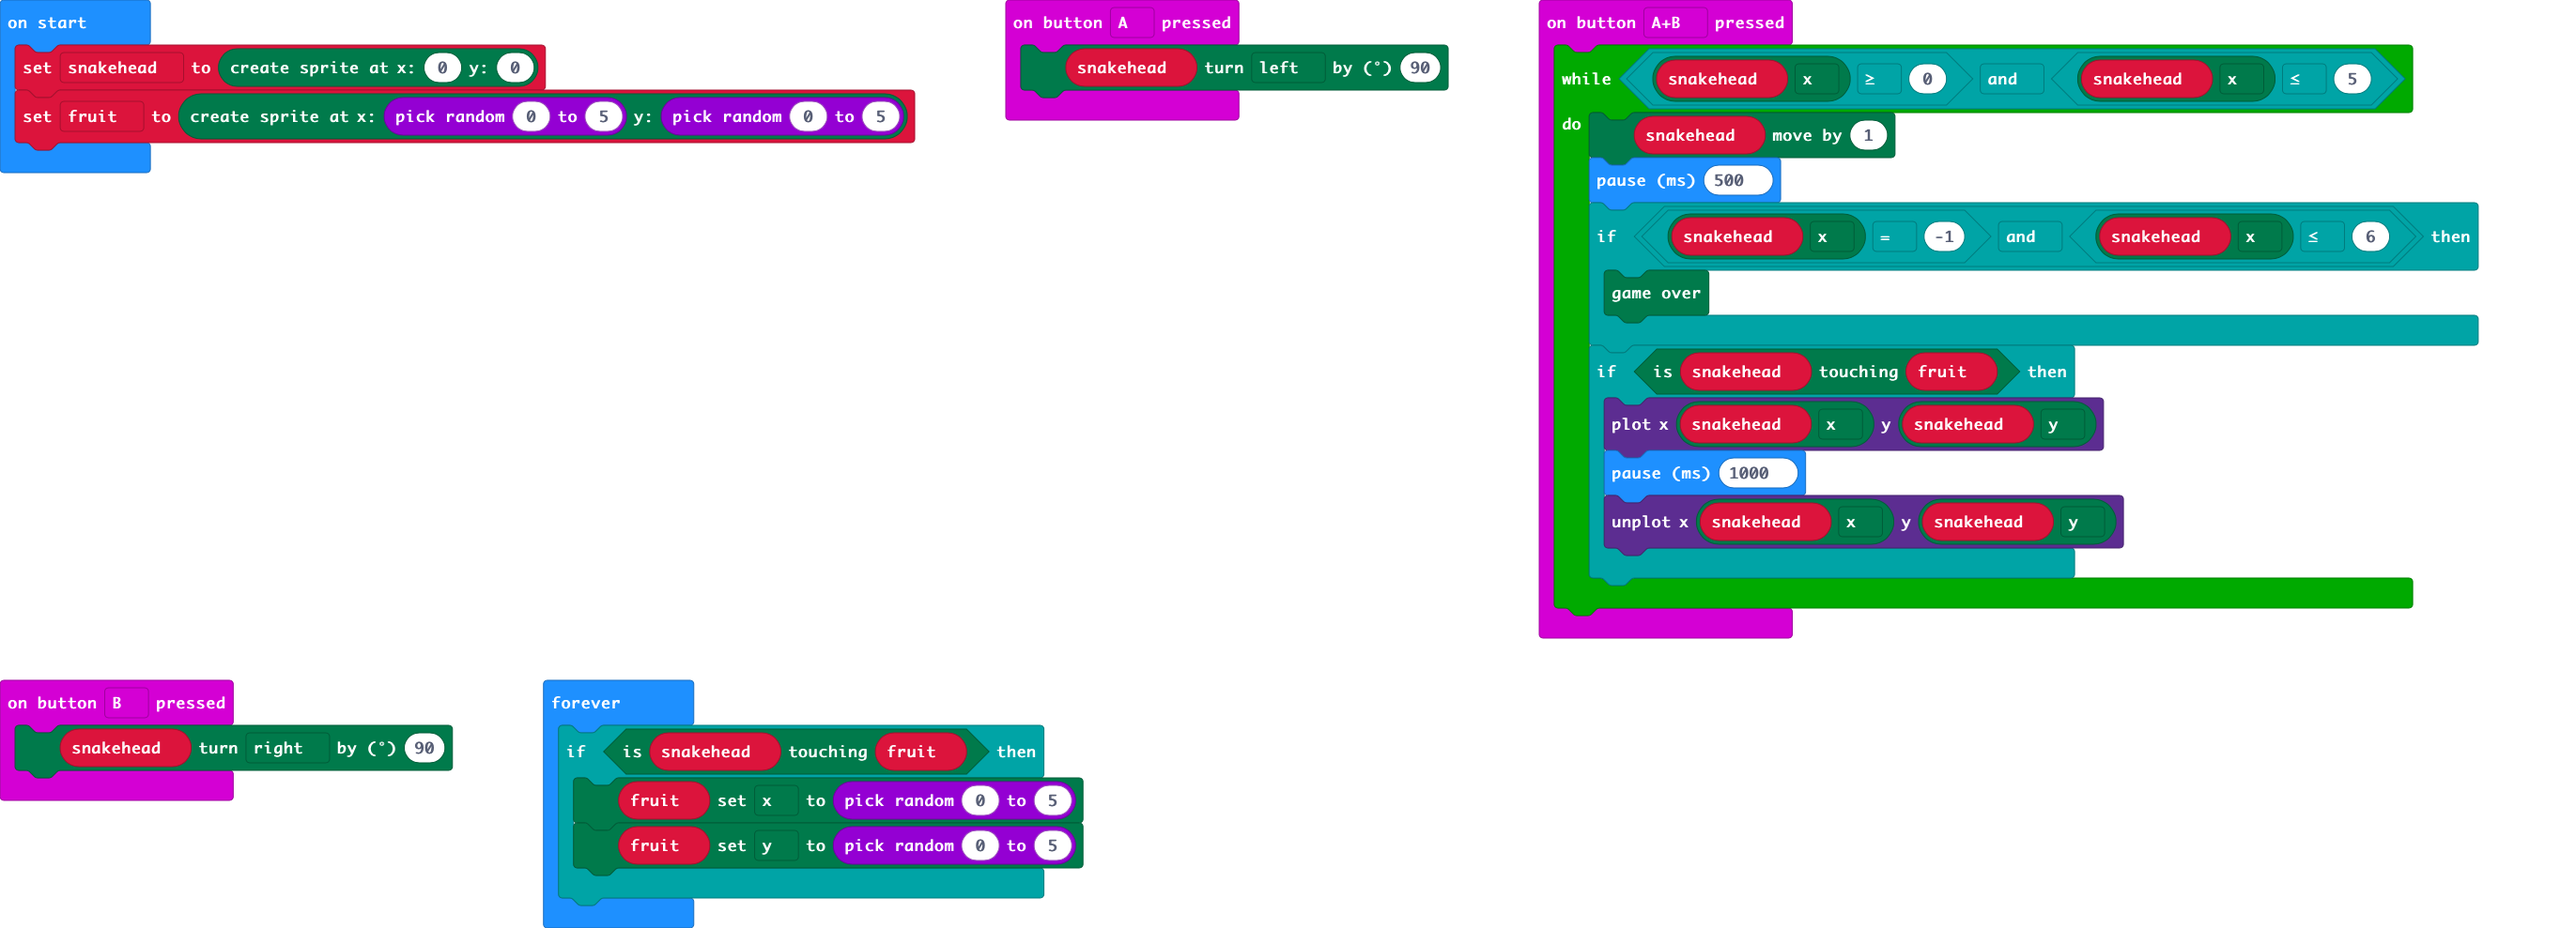
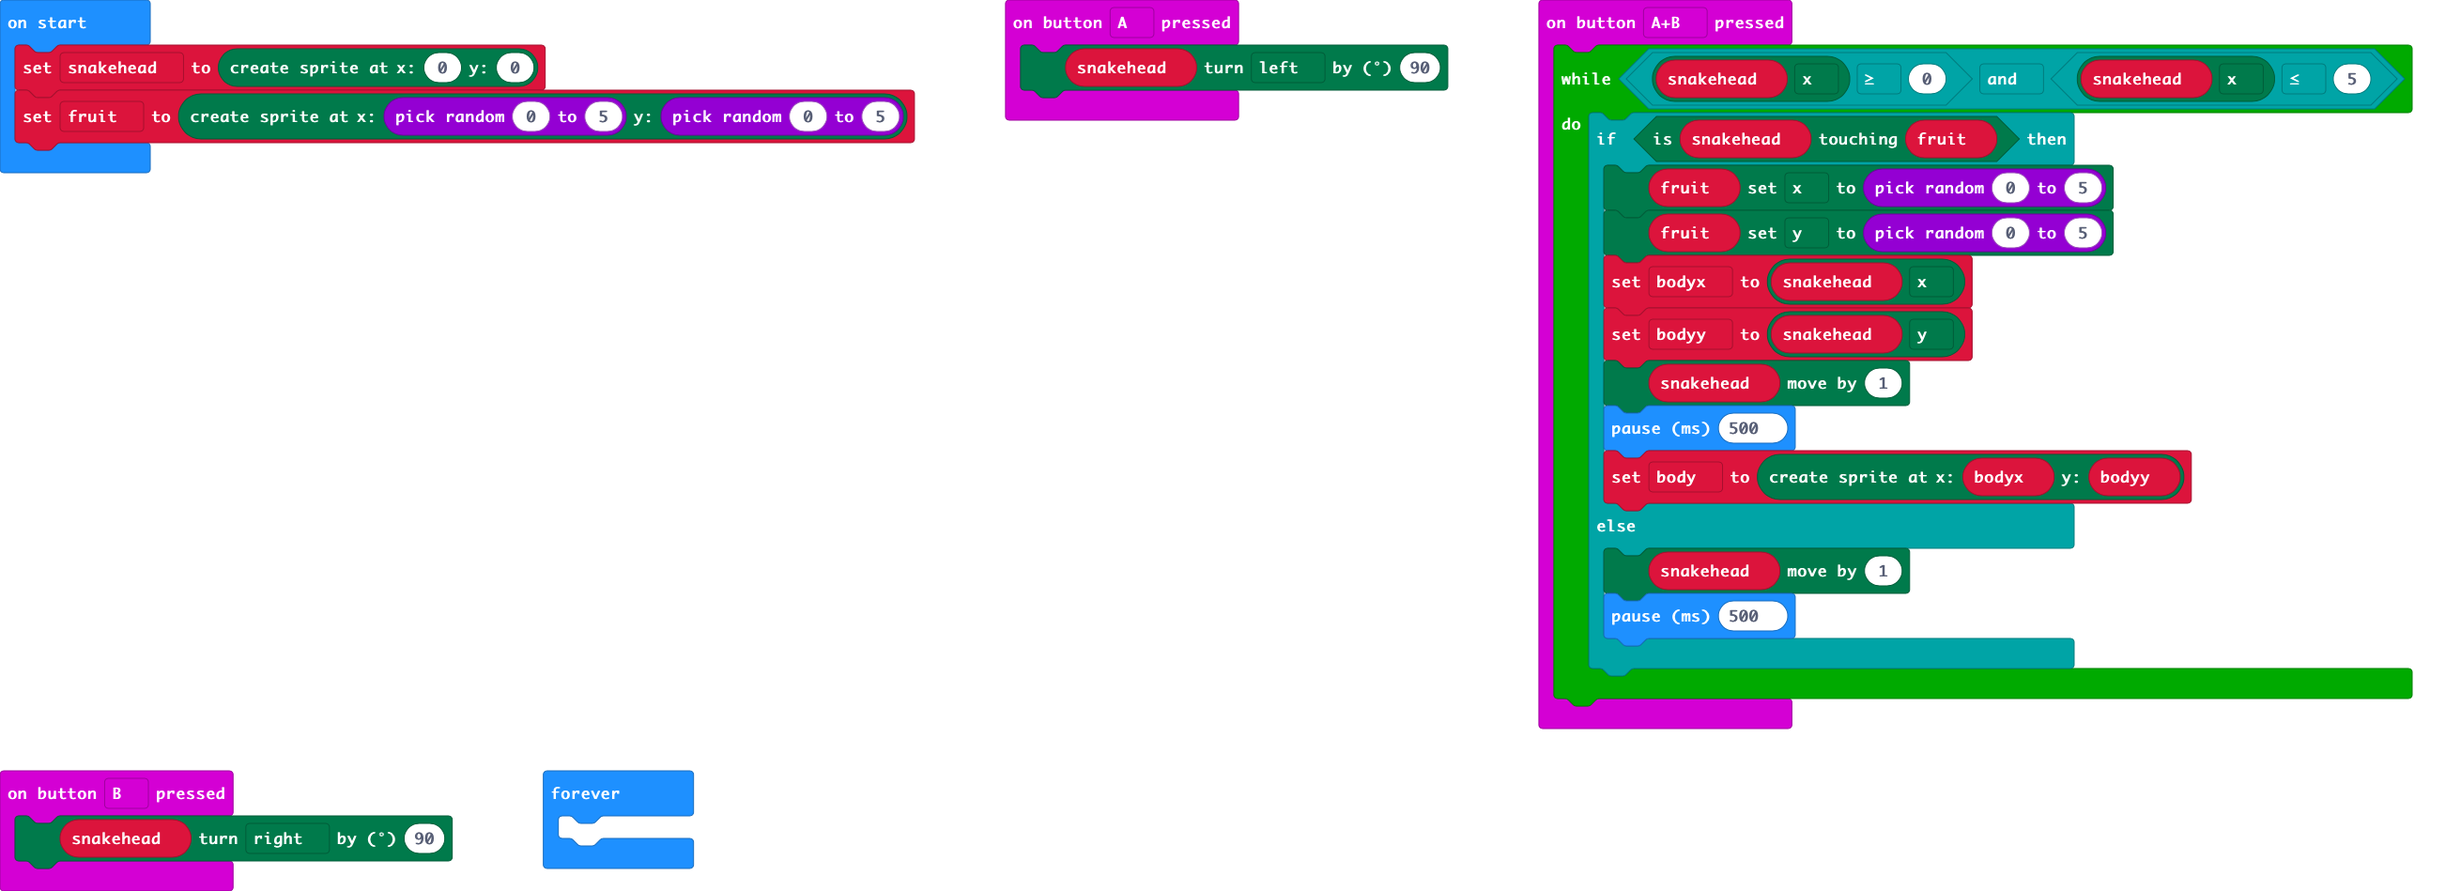
Update pxt.json, main.blocks, main.ts

Changed region(s): [[0.0, 0.0, 0.9889, 0.8251], [0.0, 0.7334, 0.4327, 1.0]]

diff --git a/main.ts b/main.ts
@@ -3,28 +3,30 @@ input.onButtonPressed(Button.A, function () {
 })
 input.onButtonPressed(Button.AB, function () {
     while (snakehead.get(LedSpriteProperty.X) >= 0 && snakehead.get(LedSpriteProperty.X) <= 5) {
-        snakehead.move(1)
-        basic.pause(500)
-        if (snakehead.get(LedSpriteProperty.X) == -1 && snakehead.get(LedSpriteProperty.X) <= 6) {
-            game.gameOver()
-        }
         if (snakehead.isTouching(fruit)) {
-            led.plot(snakehead.get(LedSpriteProperty.X), snakehead.get(LedSpriteProperty.Y))
-            basic.pause(1000)
-            led.unplot(snakehead.get(LedSpriteProperty.X), snakehead.get(LedSpriteProperty.Y))
+            fruit.set(LedSpriteProperty.X, randint(0, 5))
+            fruit.set(LedSpriteProperty.Y, randint(0, 5))
+            bodyx = snakehead.get(LedSpriteProperty.X)
+            bodyy = snakehead.get(LedSpriteProperty.Y)
+            snakehead.move(1)
+            basic.pause(500)
+            body = game.createSprite(bodyx, bodyy)
+        } else {
+            snakehead.move(1)
+            basic.pause(500)
         }
     }
 })
 input.onButtonPressed(Button.B, function () {
     snakehead.turn(Direction.Right, 90)
 })
+let body: game.LedSprite = null
+let bodyy = 0
+let bodyx = 0
 let fruit: game.LedSprite = null
 let snakehead: game.LedSprite = null
 snakehead = game.createSprite(0, 0)
 fruit = game.createSprite(randint(0, 5), randint(0, 5))
 basic.forever(function () {
-    if (snakehead.isTouching(fruit)) {
-        fruit.set(LedSpriteProperty.X, randint(0, 5))
-        fruit.set(LedSpriteProperty.Y, randint(0, 5))
-    }
+	
 })
